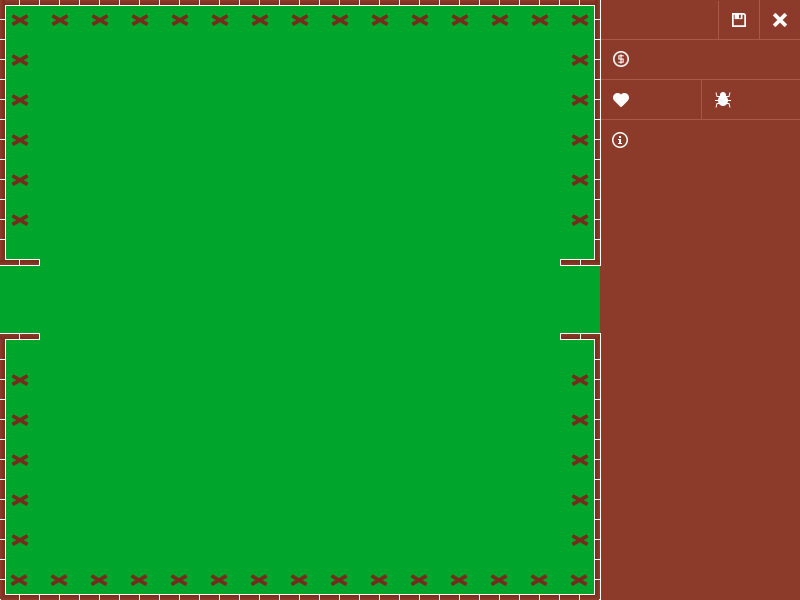
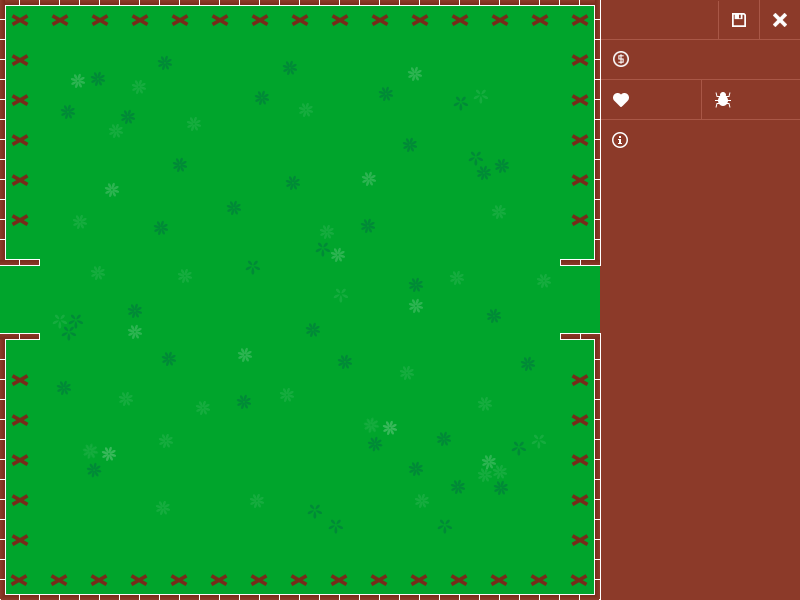
New graphics (towers and background), worms path improved

diff --git a/Worm.cpp b/Worm.cpp
@@ -42,7 +42,7 @@ void Worm::draw(sf::RenderTarget &target, sf::RenderStates states) const
 	int w=25;
 	int h=3;
 
-	sf::Vector2f bar_pos(_pos.x-w/2,_pos.y-15);
+	sf::Vector2f bar_pos(_pos.x-w/2,_pos.y-20);
 
 	sf::RectangleShape wholeHealth(sf::Vector2f(w,h));
 	wholeHealth.setFillColor(sf::Color(255,0,0));
@@ -141,9 +141,27 @@ bool Worm::go(int time, std::vector<std::vector<int> > path){
 sf::Sprite Worm::getSprite(int type){
 	sf::Sprite tmp;
 	int offset = (Worm::_iter % 10 < 5 ? 0 : 1);
+
 	tmp.setTexture(*(GameState::textures["bugs"]));
-	std::cout << type << std::endl;
 	tmp.setTextureRect(sf::IntRect((type - 1) * 40, offset * 40, 40, 40));
+
+	tmp.setOrigin(20, 20);
+	int x = (int)(_dir.x + 0.5);
+	int y = (int)(_dir.y + 0.5);
+
+	if(x == 1 && y == 0) {
+		tmp.setRotation(90);
+	}
+	else if(x == 0 && y == 0) {
+		tmp.setRotation(0);
+	}
+	else if(x == 0 && y == 1) {
+		tmp.setRotation(180);
+	}
+	else {
+		tmp.setRotation(270);
+	}
+
 	return tmp;
 }
 

diff --git a/WormLayer.cpp b/WormLayer.cpp
@@ -33,9 +33,6 @@ void WormLayer::parseEvent(sf::Event &event){
 	if(_next!=nullptr){
 		_next->parseEvent(event);
 	}
-
-
-
 }
 
 void WormLayer::draw(){
@@ -47,7 +44,6 @@ void WormLayer::draw(){
 	for(auto & i:worms){
 		sf::Sprite spr = i.getSprite(i.getType());
 		spr.setPosition(i.getPos());
-		spr.setRotation(90);
 		i.setSprite(spr);
 
 		_window->draw(i);
